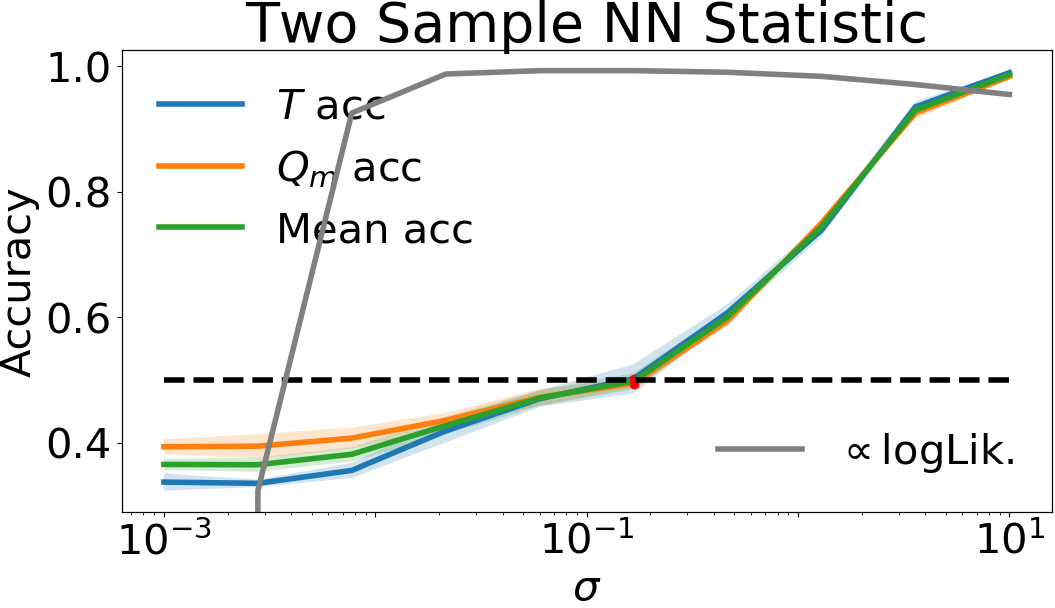
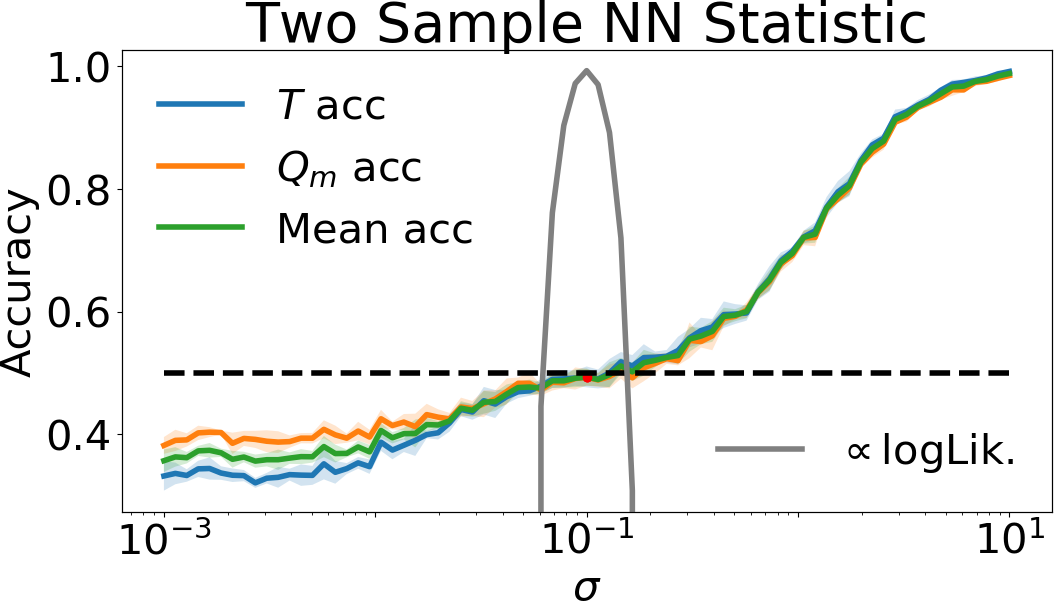
reproducing figure in images/

diff --git a/plot_utils.py b/plot_utils.py
@@ -73,9 +73,9 @@ def plot_model_sweep(x_values, traces, trace_names, xlabel, ylabel, title,
         log_lh = log_lh - np.sort(log_lh)[::-1][9]
         ax2 = ax1.twinx()
         ax2.get_yaxis().set_visible(False) #only show proportionality
+        ax2.set_yscale('log') #this is needed to make the maximum pronounced 
         ax2.plot(x_values, log_lh, color='gray', label = '$\propto \log$Lik.')
         ax2.legend(loc = 'lower right') 
-        ax2.set_yscale('log') #this is needed to make the maximum pronounced 
 
     #plot each of the traces 
     for trace, name in zip(traces, trace_names): 
@@ -88,6 +88,7 @@ def plot_model_sweep(x_values, traces, trace_names, xlabel, ylabel, title,
                          + trace_std, alpha = 0.2) 
         #plot red dot at optimal sigma value 
         if log_lh is not None: 
+            ax1.plot([], [], color = 'gray') 
             ax1.plot(x_values[opt_sig_idx], trace_mean[opt_sig_idx], 'ro')
 
     #plot the black dotted reference line 

diff --git a/moons_experiments.py b/moons_experiments.py
@@ -28,7 +28,7 @@ n = 1000 #number of test samples (Pn)
 num_trials = 10
 num_trials = 5 
 num_sigmas = 75
-num_sigmas = 10
+#num_sigmas = 10
 k = 5 #number of clusters in C_T test
 
 #Choose sigmas 
